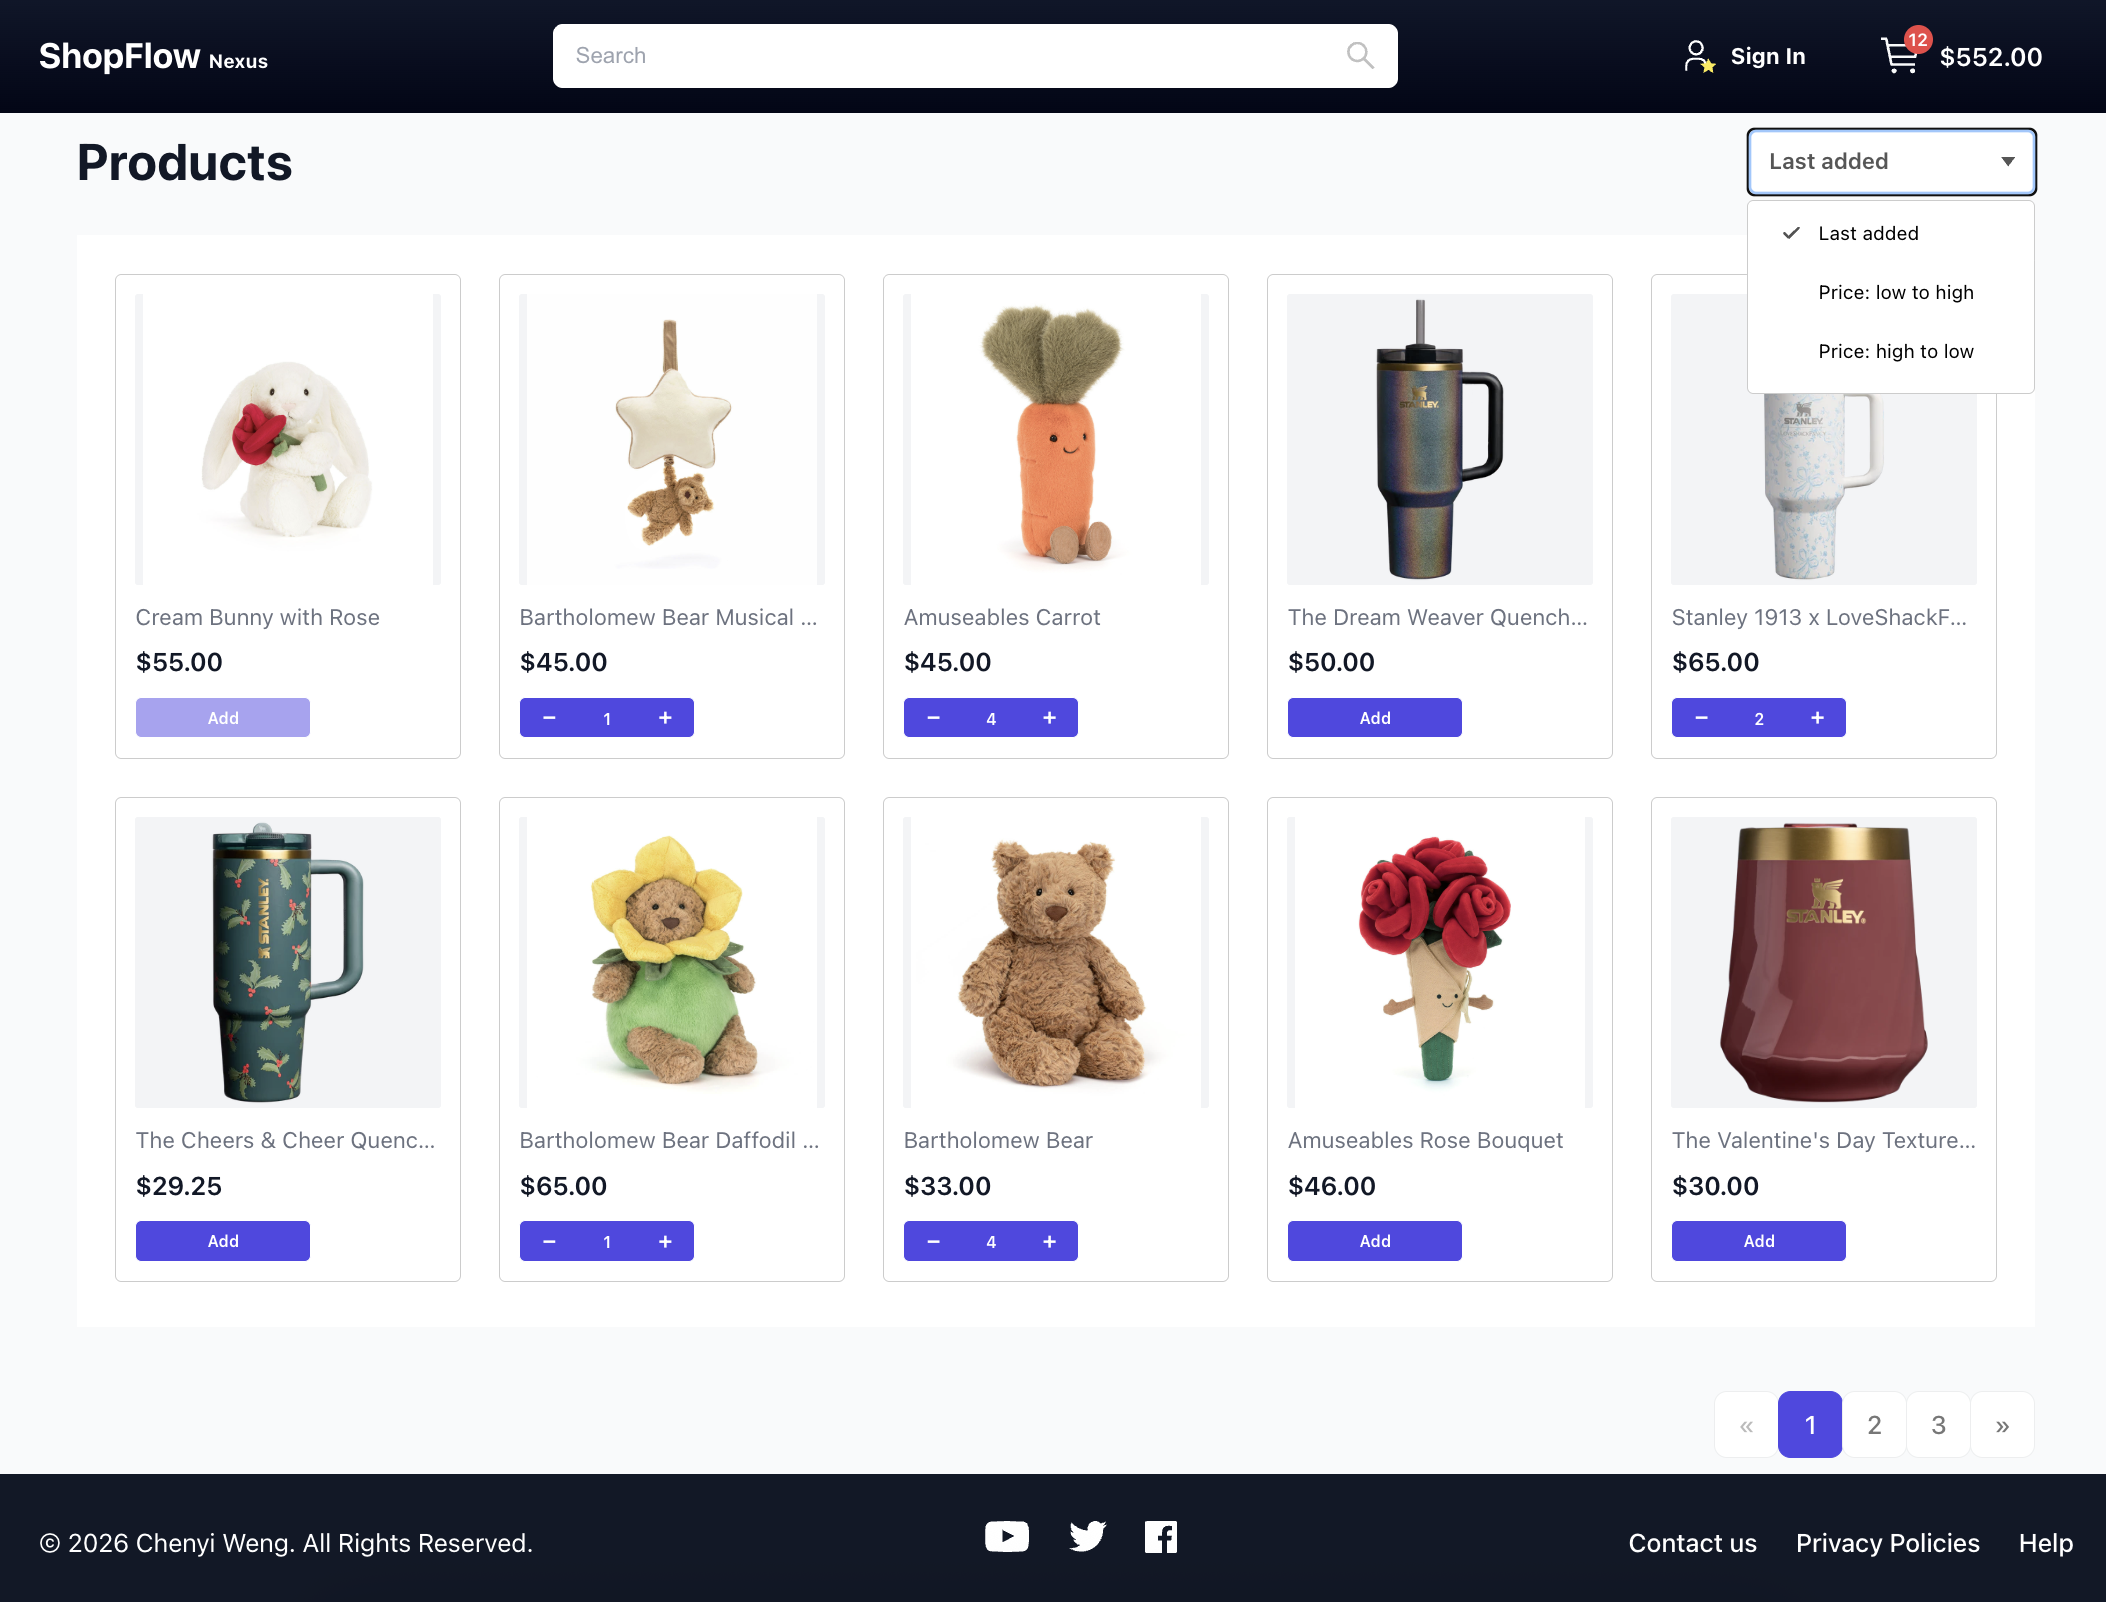
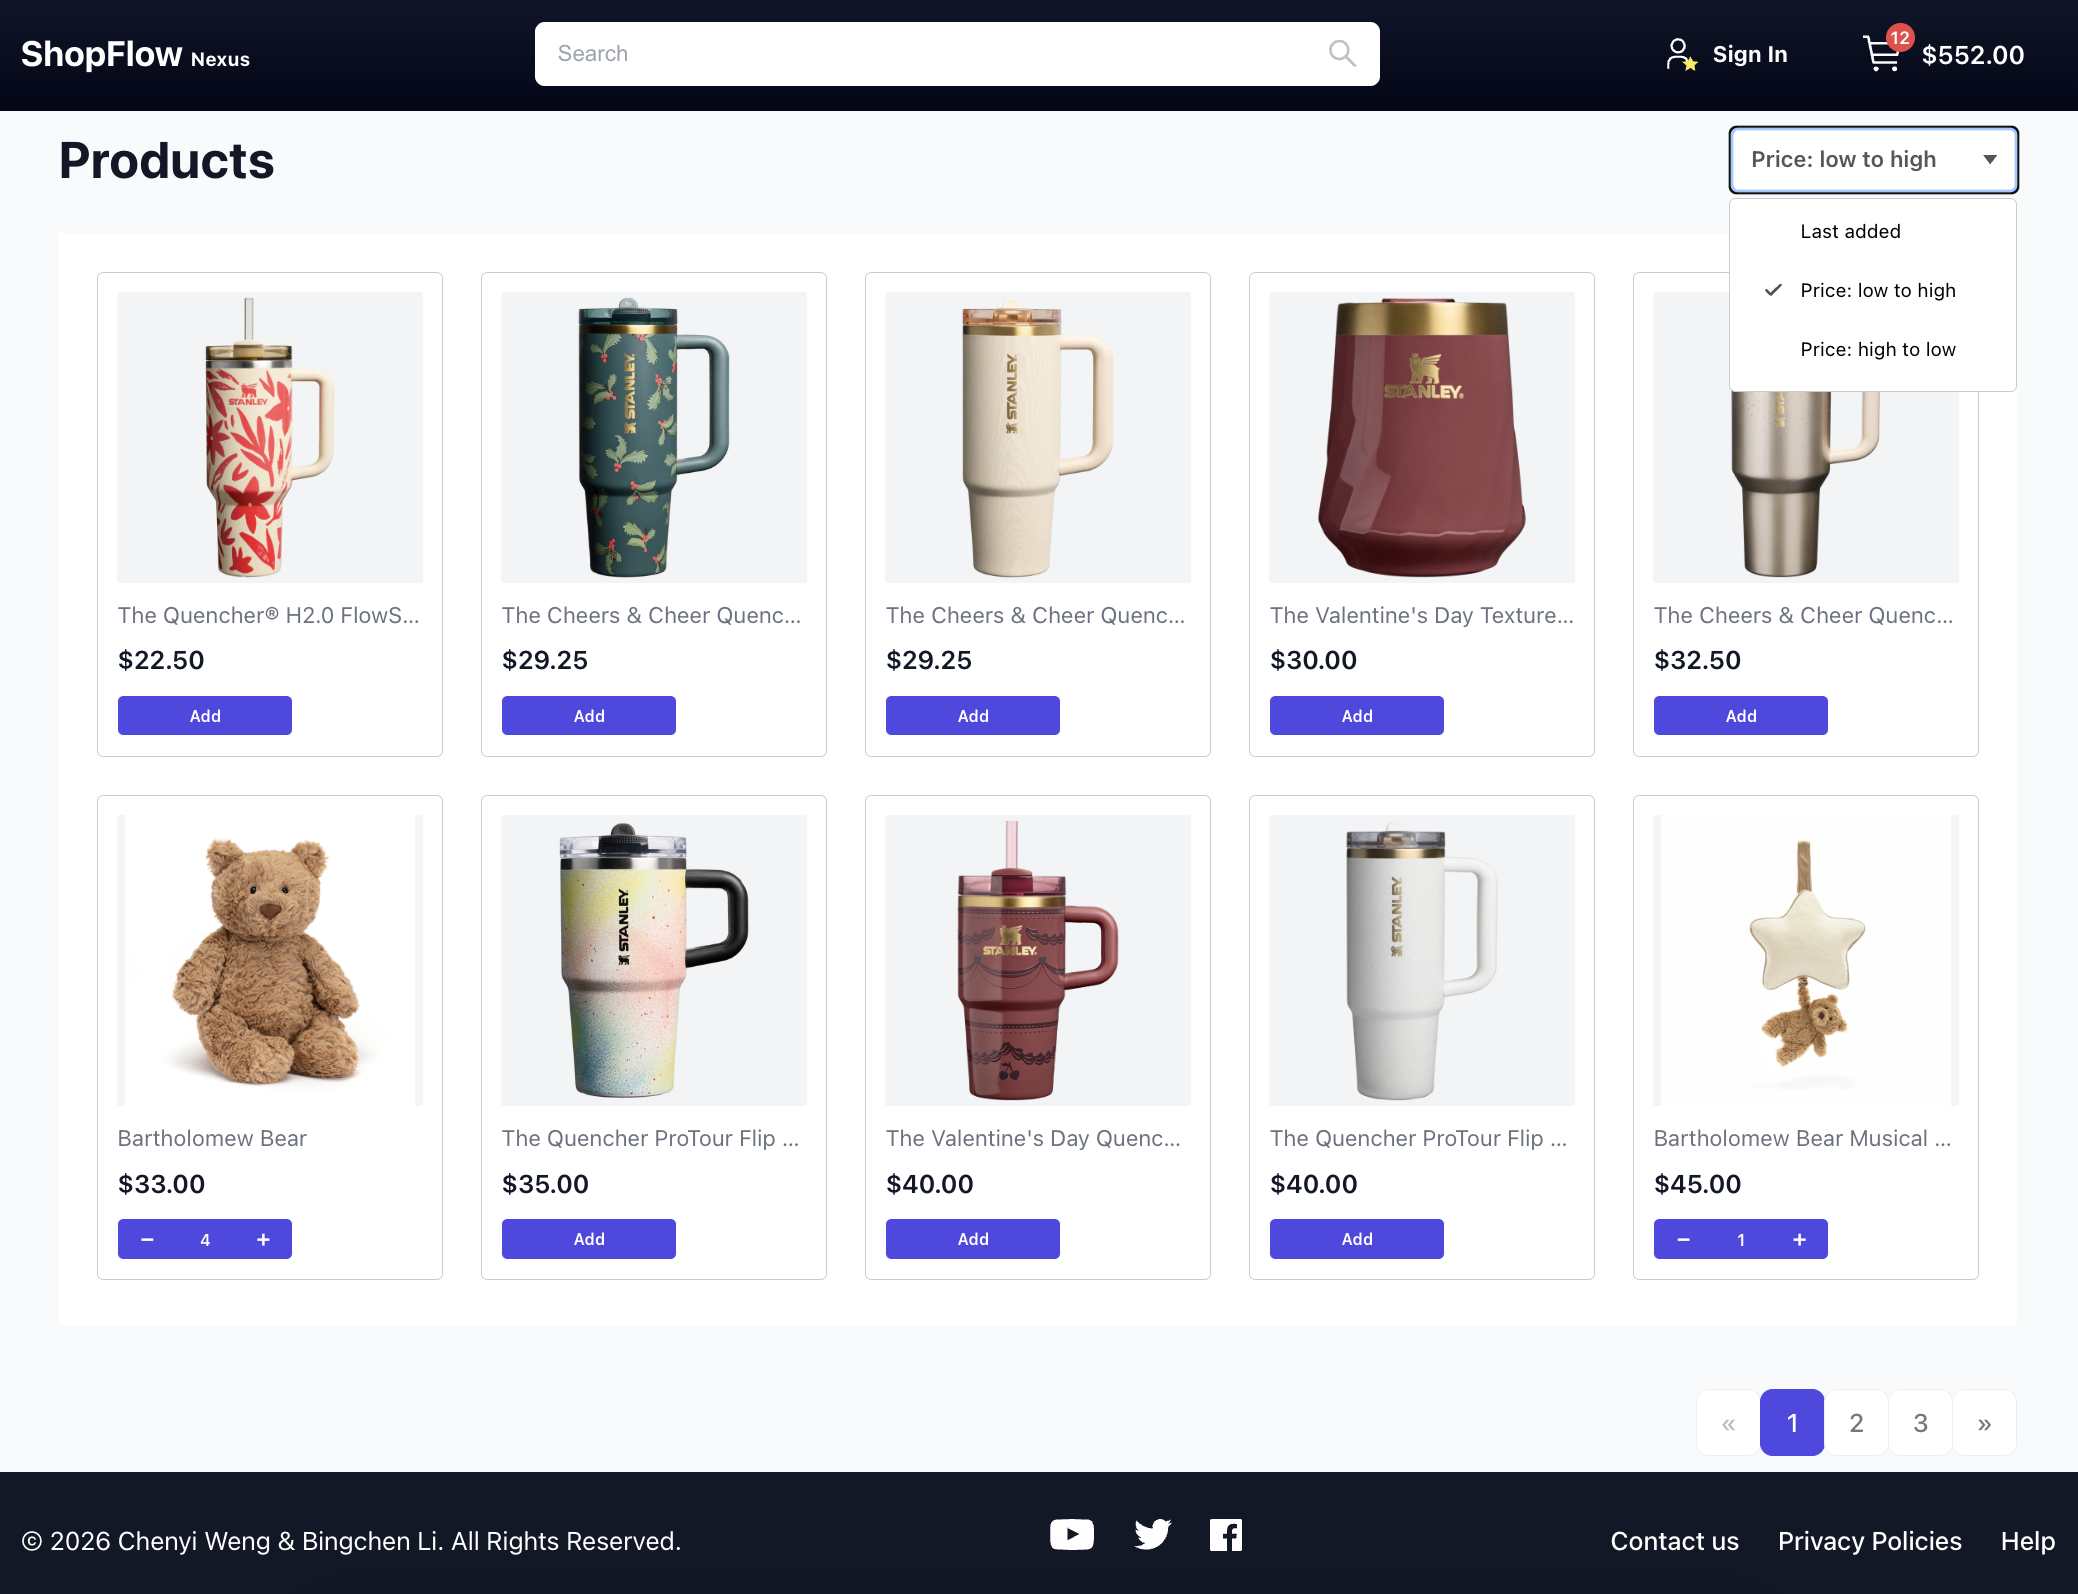
udpate README.md

diff --git a/frontend/src/layouts/MainLayout.tsx b/frontend/src/layouts/MainLayout.tsx
@@ -218,7 +218,7 @@ export default function MainLayout() {
       <footer className="site-footer">
         <div className="container footer-inner">
           <span className="footer-left">
-            © {new Date().getFullYear()} Chenyi Weng. All Rights Reserved.
+            © {new Date().getFullYear()} Chenyi Weng & Bingchen Li. All Rights Reserved.
           </span>
 
           <div className="footer-social">
